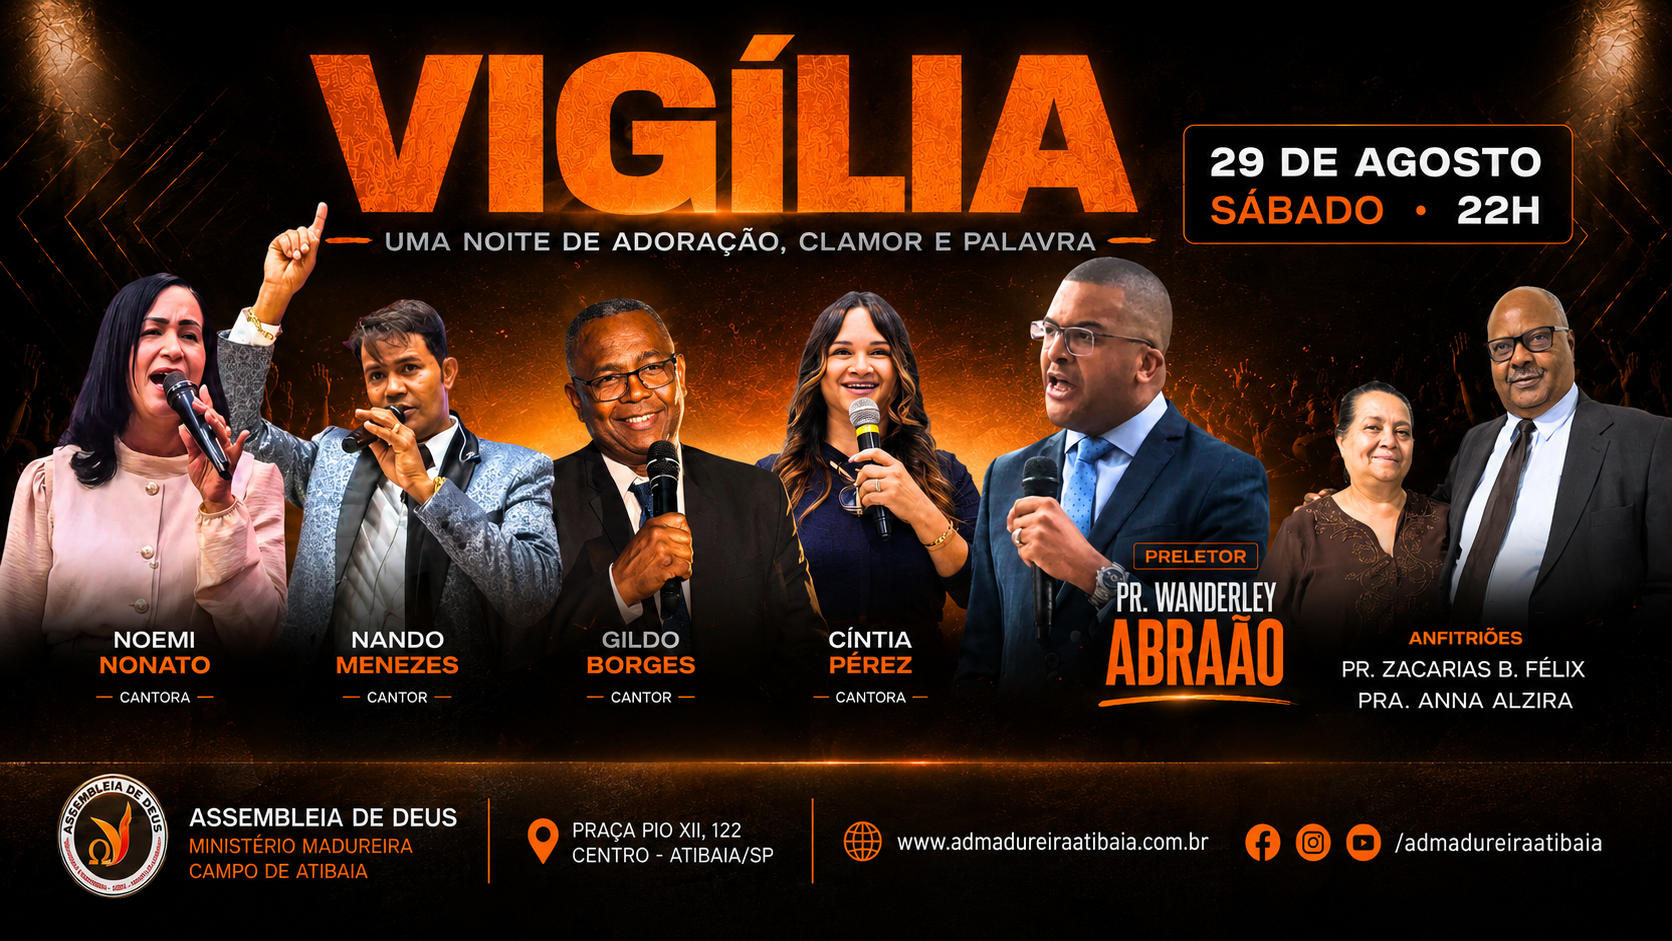
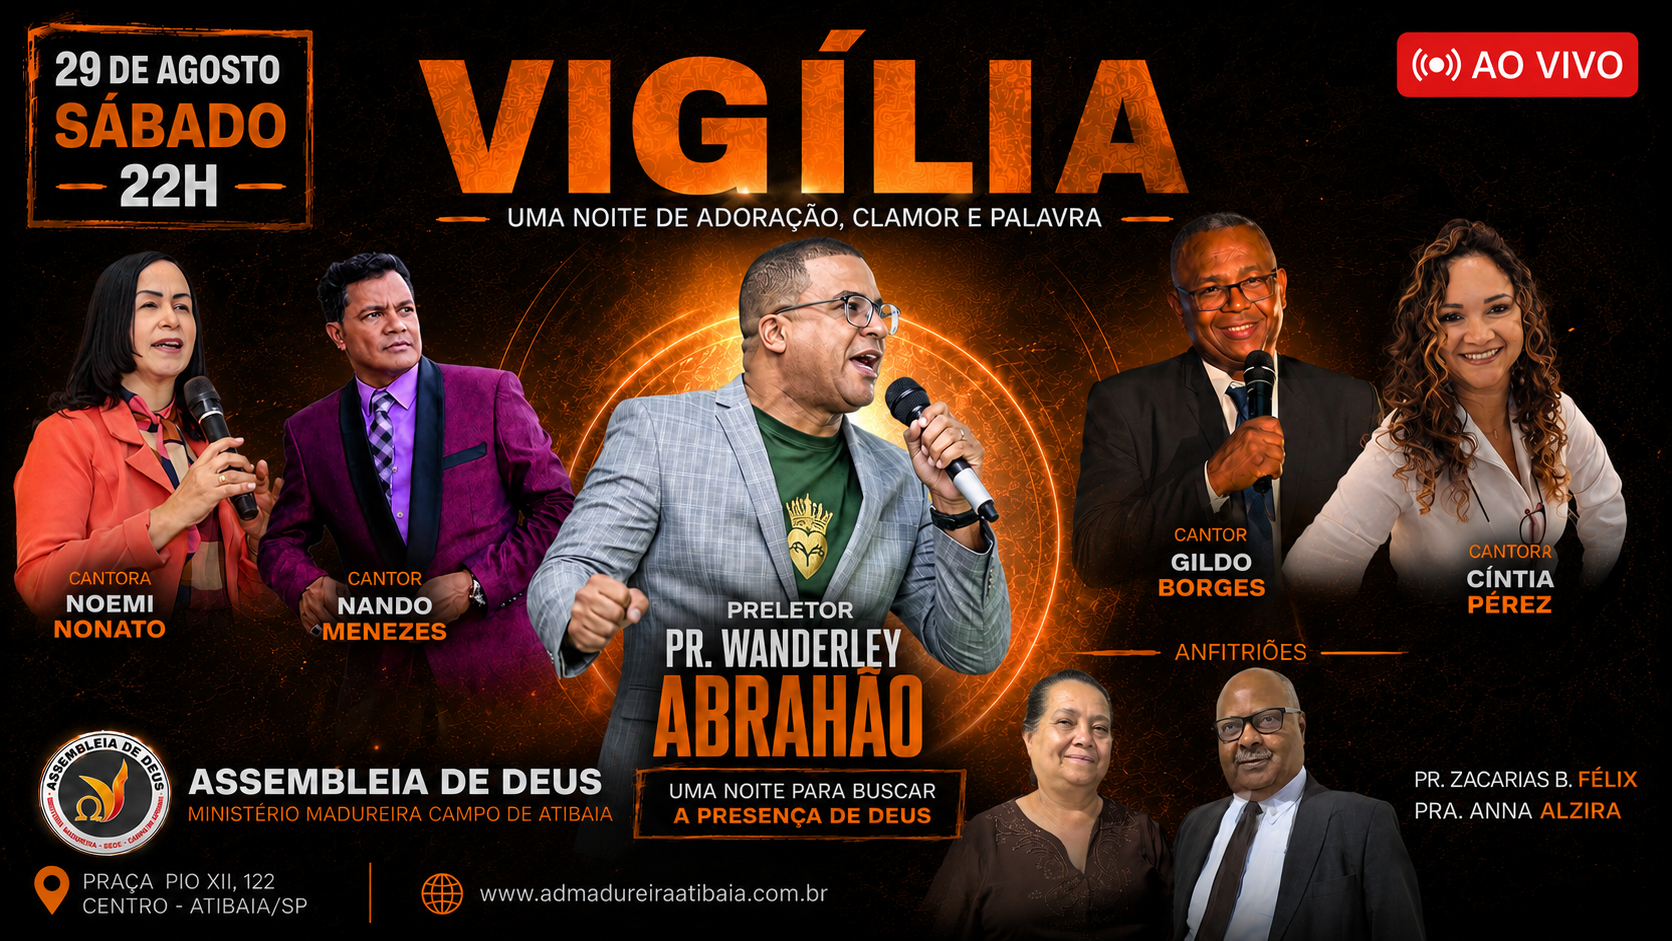
feat(eventos,programacao): atualiza artes da Vigília e da semana

diff --git a/src/data/banner-semanal-manifest.ts b/src/data/banner-semanal-manifest.ts
@@ -233,5 +233,21 @@ export const BANNERS_SEMANAIS_DISPONIVEIS: Record<string, readonly string[]> = {
     "reuniao-ministerial.png",
     "santa-ceia.png",
     "vigilia.png"
+  ],
+  "2026-07-13": [
+    "circulo-de-oracao.png",
+    "congresso-rios-de-uncao.png",
+    "consagracao-mulheres.png",
+    "culto-de-domingo.png",
+    "culto-de-ensino.png",
+    "culto-de-libertacao.png",
+    "culto-de-quinta.png",
+    "ebd.png",
+    "ensaio-irmas.png",
+    "ensaio-jovens.png",
+    "jejum-e-oração.png",
+    "oracao-matinal-domingo.png",
+    "oracao-matinal.png",
+    "vigilia.png"
   ]
 };
